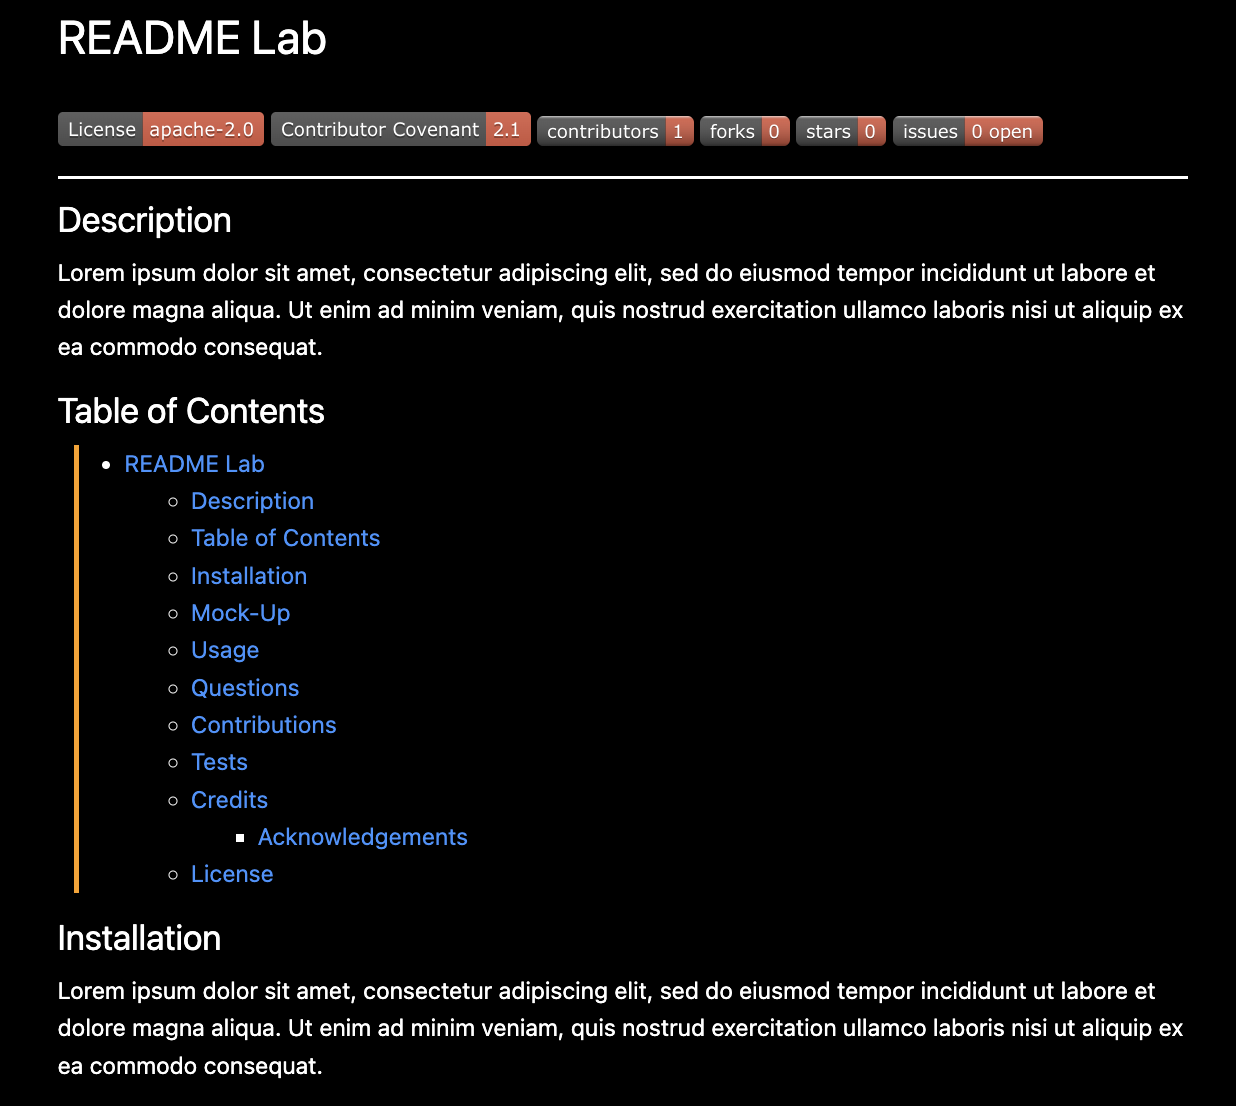
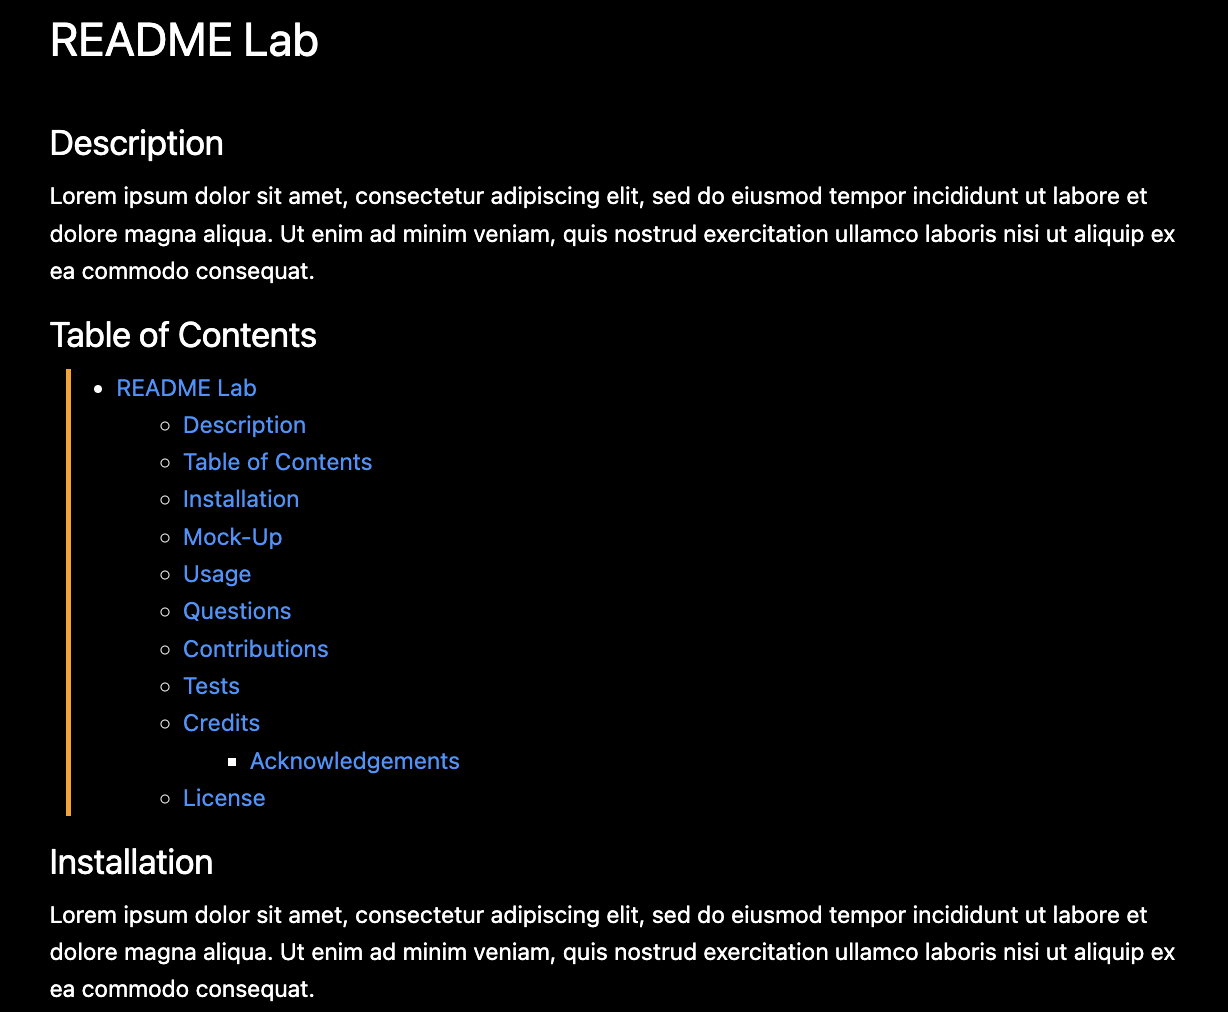
updated readme

Changed region(s): [[0.0309, 0.0919, 0.9593, 0.7964], [0.0309, 0.8271, 0.9593, 1.0], [0.0309, 0.0, 0.2785, 0.0613]]

diff --git a/dist/README-ClassicSample.md b/dist/README-ClassicSample.md
@@ -1,14 +1,5 @@
 
-# README Lab
-
-![Licence](https://img.shields.io/static/v1?label=License&message=apache-2.0&color=red)
-![Contributor Covenant](https://img.shields.io/badge/Contributor%20Covenant-2.1-red.svg)
-![Contributors](https://img.shields.io/github/contributors/loremipsum/lorem-ipsum?style=plastic&color=red)
-![Forks](https://img.shields.io/github/forks/loremipsum/lorem-ipsum?style=plastic&color=red)
-![Stars](https://img.shields.io/github/stars/loremipsum/lorem-ipsum?style=plastic&color=red)
-![Issues](https://img.shields.io/github/issues/loremipsum/lorem-ipsum?style=plastic&color=red)
-  
----        
+# README Lab       
 
 ## Description
 
